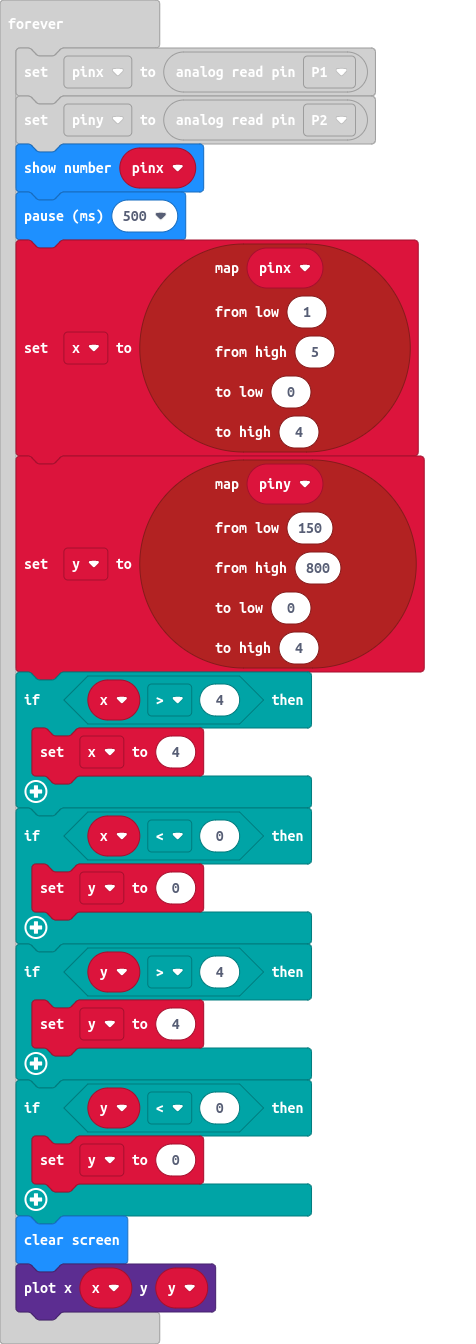
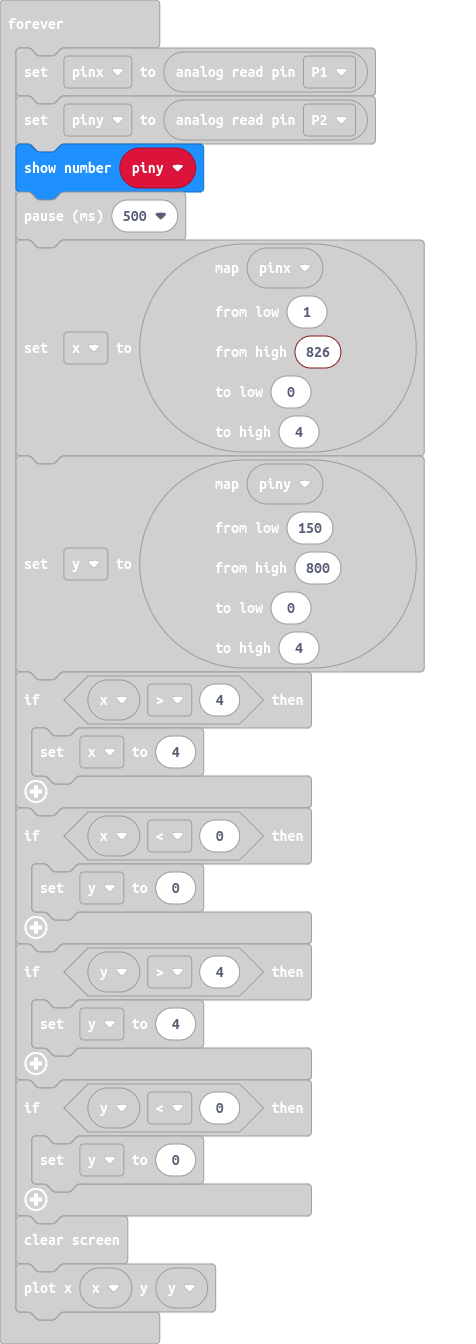
x value set debug y

diff --git a/main.ts b/main.ts
@@ -5,12 +5,12 @@ let y = 0
 basic.forever(function () {
     pinx = pins.analogReadPin(AnalogPin.P1)
     piny = pins.analogReadPin(AnalogPin.P2)
-    basic.showNumber(pinx)
+    basic.showNumber(piny)
     basic.pause(500)
     x = pins.map(
     pinx,
     1,
-    5,
+    826,
     0,
     4
     )
